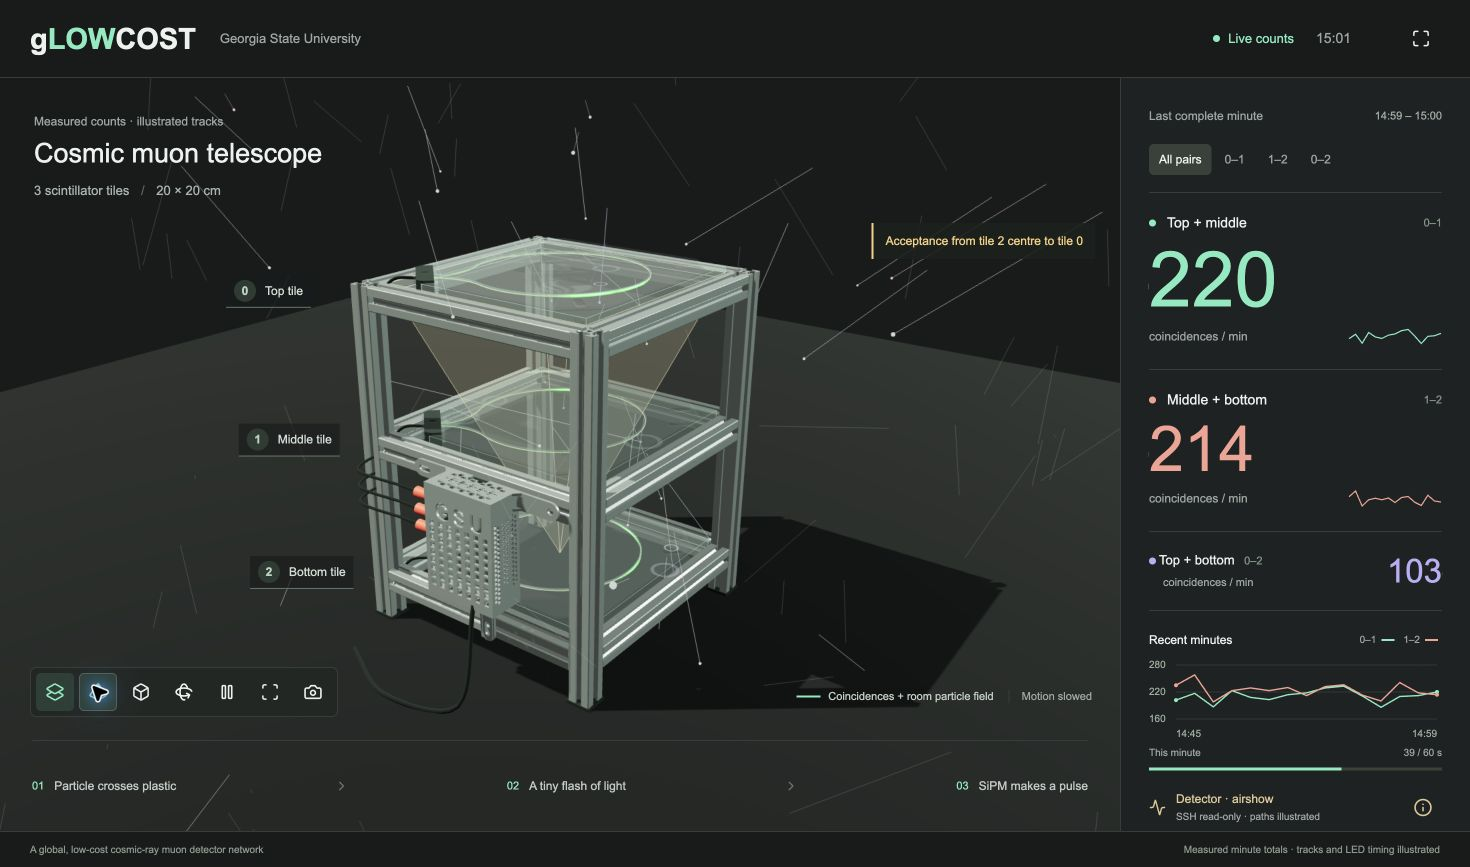
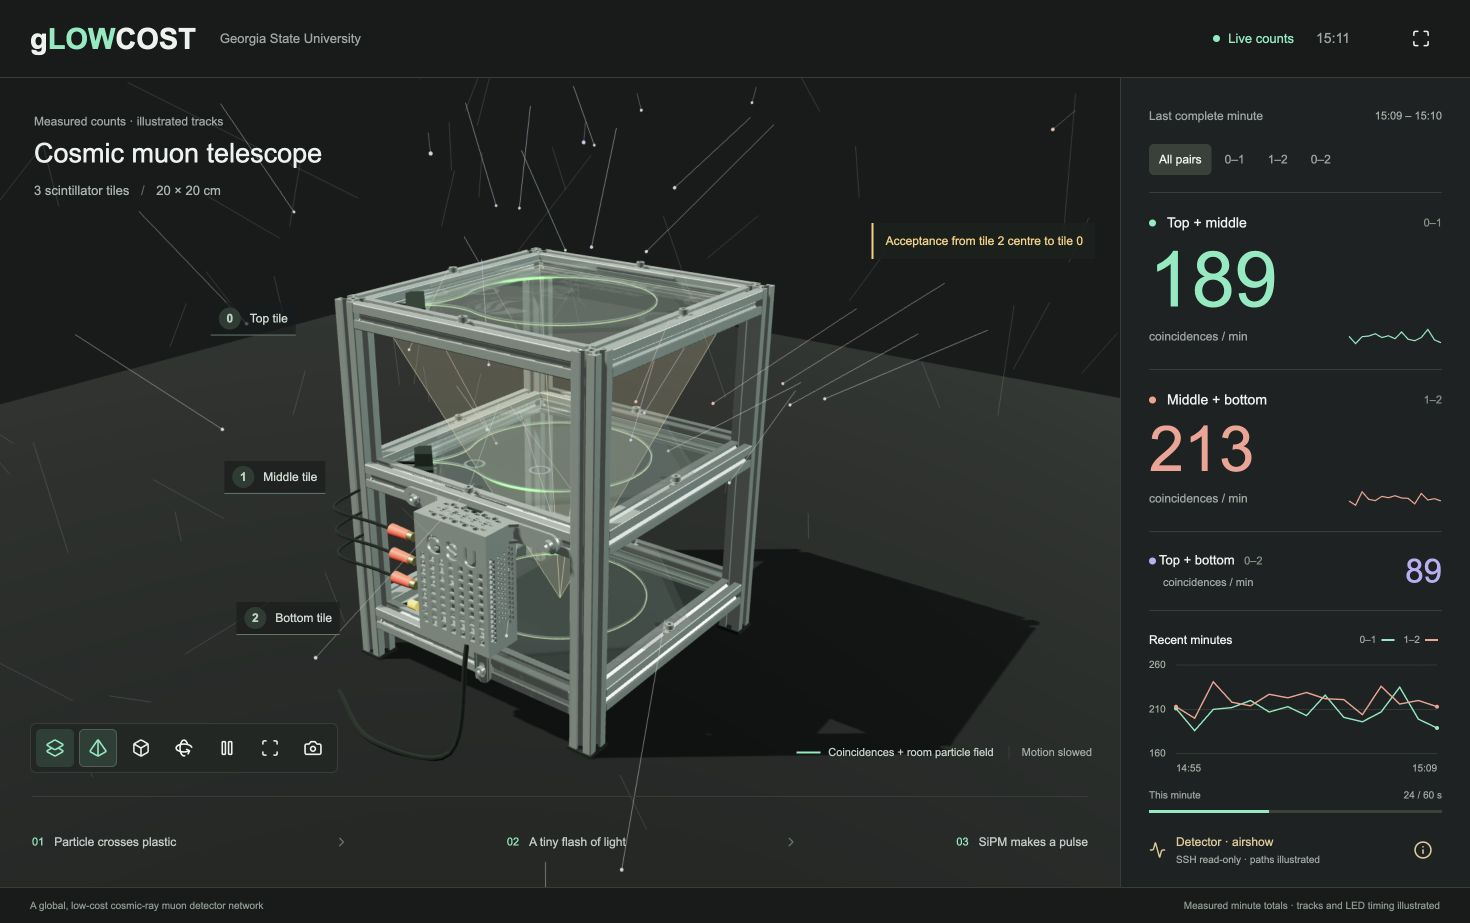
Recess tiles within frame and add socket-head mounting hardware

diff --git a/public/mechanics.js b/public/mechanics.js
@@ -2,6 +2,8 @@ import * as THREE from 'three';
 import { STLLoader } from '/vendor/loaders/STLLoader.js';
 import { GLTFLoader } from '/vendor/loaders/GLTFLoader.js';
 import { FibreLight, fibreCurve, tilePoint } from './fibre.js';
+import { TILE_HEIGHTS, ACRYLIC_ANGLE, ACRYLIC_MOUNTS } from './detector-geometry.js';
+import { socketFastener } from './fasteners.js';
 
 function acrylicShape(data) {
   const shape = new THREE.Shape(data.outline.map(p => new THREE.Vector2(...p)));
@@ -41,7 +43,7 @@ export async function installMechanicalParts(view) {
     upright.scale.y = (top - bottom) / 38.1;
     view.box(2.2, 0.5, 2.2, x, -18, z, view.black);
   }
-  for (const y of [12.05, -0.95, -13.95]) {
+  for (const y of TILE_HEIGHTS) {
     for (const z of [-11.16, 11.16]) mesh(rail, view.silver, [0, y, z]);
     for (const x of [-11.16, 11.16]) {
       const side = mesh(rail, view.silver, [x, y, 0]);
@@ -61,7 +63,7 @@ export async function installMechanicalParts(view) {
   view.mechanicalSheets = [];
   for (const old of view.sandwichPieces) { view.model.remove(old); old.geometry.dispose(); }
   view.tiles.forEach((item, index) => {
-    const y = [13, 0, -13][index];
+    const y = TILE_HEIGHTS[index];
     item.tile.geometry.dispose();
     item.tile.geometry = tile;
     item.edges.geometry.dispose();
@@ -80,12 +82,22 @@ export async function installMechanicalParts(view) {
     sensor.position.copy(tilePoint(19.021, 19.021, 8.5, y));
     view.model.add(sensor);
     for (const sign of [-1, 1]) {
-      const acrylicSheet = mesh(sheet, view.glass, [0, y + sign * 0.7, 0]);
-      acrylicSheet.rotation.y = Math.PI / 2;
+      const acrylicSheet = mesh(sheet, view.glass, [0, y + sign * 0.9, 0]);
+      acrylicSheet.rotation.y = ACRYLIC_ANGLE;
       view.mechanicalSheets.push(acrylicSheet);
       const padding = new THREE.MeshStandardMaterial({ map: view.wrap.map, color: '#303630',
         transparent: true, opacity: view.cutaway ? 0.15 : 1, roughness: 1, depthWrite: false });
-      view.cushions.push(mesh(cushion, padding, [0, y + sign * 0.55, 0]));
+      const lining = mesh(cushion, padding, [0, y + sign * 0.55, 0]);
+      lining.rotation.y = ACRYLIC_ANGLE;
+      view.cushions.push(lining);
+    }
+    for (const [x, z] of ACRYLIC_MOUNTS) {
+      const screw = socketFastener(view.silver, 0.45);
+      screw.rotation.x = -Math.PI / 2;
+      screw.position.set(x, y + 1.03, z);
+      // The sliding nut follows the longitudinal slot of each beam.
+      if (x) screw.rotateZ(Math.PI / 2);
+      view.model.add(screw);
     }
     const light = new FibreLight(fibreCurve(fibre, y), fibre.diameter_mm / 20);
     view.model.add(light.core, light.glow);
@@ -98,8 +110,8 @@ export async function installMechanicalParts(view) {
   artwork.colorSpace = THREE.SRGBColorSpace;
   view.topText.geometry.dispose();
   view.topText.geometry = new THREE.PlaneGeometry(19.81, 19.81);
-  view.topText.position.y = 13.81;
-  view.topText.rotation.z = Math.PI / 2;
+  view.topText.position.y = TILE_HEIGHTS[0] + 1.01;
+  view.topText.rotation.z = ACRYLIC_ANGLE;
   view.topText.material.dispose();
   view.topText.material = new THREE.MeshBasicMaterial({ map: artwork, transparent: true,
     opacity: view.cutaway ? 0.22 : 0.75, depthWrite: false, side: THREE.DoubleSide });
@@ -113,6 +125,12 @@ export async function installMechanicalParts(view) {
   base.scale(0.1, 0.1, 0.1);
   const enclosureBase = mesh(base, view.silver, [2.2, -5.1, 10.8]);
   view.readout.add(enclosureBase);
+  // These three slots belong to the supplied enclosure's mounting wings.
+  for (const [x, y] of [[-63.276, 41.097], [66.9, 41.4], [0, -87.198]]) {
+    const screw = socketFastener(view.silver, 0.8);
+    screw.position.set(2.2 + x / 10, -5.1 + y / 10, 11.02);
+    view.readout.add(screw);
+  }
   for (const old of [...view.lid.children]) { view.lid.remove(old); old.geometry?.dispose(); }
   lid.scale(0.1, 0.1, 0.1);
   const cover = new THREE.Mesh(lid, view.silver);

diff --git a/public/fasteners.js b/public/fasteners.js
@@ -1,0 +1,34 @@
+import * as THREE from './vendor/three.module.js';
+
+// Display dimensions approximate an M4 socket-head screw, washer and sliding nut.
+// The group's +Z axis points outwards from the mounting surface.
+export function socketFastener(material, length = 1) {
+  const group = new THREE.Group();
+  const head = new THREE.Shape();
+  head.absarc(0, 0, 0.35, 0, Math.PI * 2, false);
+  const socket = new THREE.Path();
+  for (let i = 0; i < 6; i++) {
+    const angle = -i * Math.PI / 3;
+    const x = 0.175 * Math.cos(angle), y = 0.175 * Math.sin(angle);
+    if (!i) socket.moveTo(x, y); else socket.lineTo(x, y);
+  }
+  socket.closePath();
+  head.holes.push(socket);
+  const cap = new THREE.Mesh(new THREE.ExtrudeGeometry(head,
+    { depth: 0.4, bevelEnabled: false, curveSegments: 16 }), material);
+  const recess = new THREE.Mesh(new THREE.CircleGeometry(0.175, 6),
+    new THREE.MeshStandardMaterial({ color: '#171a19', roughness: 0.8 }));
+  recess.position.z = 0.07;
+  const washer = new THREE.Mesh(new THREE.RingGeometry(0.205, 0.45, 24), material);
+  washer.material = material.clone();
+  washer.material.side = THREE.DoubleSide;
+  washer.position.z = 0.02;
+  const shaft = new THREE.Mesh(new THREE.CylinderGeometry(0.2, 0.2, length, 12), material);
+  shaft.rotation.x = Math.PI / 2;
+  shaft.position.z = -length / 2;
+  const nut = new THREE.Mesh(new THREE.BoxGeometry(1, 0.6, 0.25), material);
+  nut.position.z = -length + 0.125;
+  group.add(cap, recess, washer, shaft, nut);
+  group.traverse(part => { if (part.isMesh) part.castShadow = true; });
+  return group;
+}

diff --git a/public/scene.js b/public/scene.js
@@ -4,8 +4,9 @@ import { ReadoutHardware } from './hardware.js';
 import { acceptanceProfile } from './acceptance.js';
 import { installMechanicalParts } from './mechanics.js';
 import { BEAM, smaLeadPoints } from './readout-placement.js';
+import { TILE_HEIGHTS } from './detector-geometry.js';
 
-const TILE_Y = [13, 0, -13];
+const TILE_Y = TILE_HEIGHTS;
 const READOUT_PORT_Y = [-2.5, -4.5, -6.5];
 const PAIR_COLORS = { c01: '#80ecc0', c12: '#f5a394', c02: '#bcb0f6', all: '#80ecc0' };
 

diff --git a/public/acceptance.js b/public/acceptance.js
@@ -1,5 +1,7 @@
+import { TILE_HEIGHTS } from './detector-geometry.js';
+
 export function acceptanceProfile(pair = 'all') {
-  const heights = [13, 0, -13];
+  const heights = TILE_HEIGHTS;
   const [top, bottom] = (pair === 'all' ? '02' : pair.slice(1)).split('').map(Number);
   const lower = heights[bottom], upper = heights[top];
   return { lower, upper, top, bottom, halfWidth: 10,

diff --git a/public/detector-geometry.js b/public/detector-geometry.js
@@ -1,0 +1,5 @@
+export const TILE_HEIGHTS = [12.05, -0.95, -13.95];
+export const RAIL_HALF_HEIGHT = 1;
+// The source artwork and its four mounting holes are diagonal to the tile.
+export const ACRYLIC_ANGLE = Math.PI / 4;
+export const ACRYLIC_MOUNTS = [[0, -11.16], [11.16, 0], [0, 11.16], [-11.16, 0]];

diff --git a/README.md b/README.md
@@ -112,10 +112,15 @@ The tiles are 20 x 20 x 1 cm, with 13 cm between their centre planes.
 The tile and SiPM holder come from the supplied STL files. A section through
 the groove is used to place an illustrative 1 mm fibre between the groove
 walls. The acrylic outline, screw holes, slots, and engraving come from the
-Illustrator file. The acrylic sheets and engraving are rotated 90 degrees
-relative to the tile mesh. There is acrylic and a thin drawer-liner layer on
+Illustrator file. The sheets' mounting holes face the beam slots, and the
+lettering reads horizontally from the readout-box side. There is acrylic and a thin drawer-liner layer on
 both sides of each tile. Their thicknesses are display assumptions, not
 measurements taken from the artwork.
+
+The scintillator and its holder sit within the horizontal beams, so neither
+protrudes in a level side view. Four socket-head screws and sliding T-nuts
+secure each acrylic assembly. The readout uses its three existing mounting
+wing slots. Fastener dimensions are illustrative M4-sized hardware.
 
 The Hamamatsu S13360-2050VE component model sits in the corner holder's
 recess. Both ends of the fibre stop at its sensing face. Green light moves
@@ -166,6 +171,8 @@ these illustrated intersections are added to the measured numbers.
 | `public/mechanics.js` | Places the supplied STL parts, acrylic, liner, and fibre |
 | `public/fibre.js` | Follows the groove and animates green light towards the SiPM |
 | `public/readout-placement.js` | Aligns the GPIO header and defines the side cable route |
+| `public/detector-geometry.js` | Shares the recessed tile heights and acrylic orientation |
+| `public/fasteners.js` | Draws socket-head screws, washers and sliding T-nuts |
 | `public/hardware.js` | Loads the PCB and Pi CAD and flashes the indicators |
 | `public/acceptance.js` | Defines the selected-pair acceptance geometry |
 | `public/charts.js` | Draws the count history |

diff --git a/docs/ASSETS.md b/docs/ASSETS.md
@@ -49,7 +49,9 @@ changes, inspect its components before using the same selection.
 The Illustrator file has a PDF-compatible page. A blank plate is used to
 extract the outline and four holes/slots. This avoids mistaking letters for
 cutting paths. The marked plate is rendered separately as an engraving mask.
-The acrylic sheets and engraving are turned 90 degrees in `mechanics.js`.
+The source lettering is diagonal. The sheets and artwork are oriented so the
+letters read across the top when viewed from the readout-box side, with the
+four screw locations over the beam slots. `ACRYLIC_ANGLE` is shared by both.
 
 For the fibre, the script takes a horizontal section at 8.4 mm in the tile.
 It finds the inner and outer groove walls and places the fibre between them.
@@ -84,6 +86,14 @@ so it cannot specify the material thickness. The display uses 2 mm acrylic
 and 1 mm drawer liner on each side. Change those values in `mechanics.js` when
 the actual thicknesses have been measured. The liner texture is an illustration
 of a woven cushion, not a scanned surface.
+
+The tile planes coincide with the horizontal beam centre heights. A tile is
+10 mm thick and the supplied holder spans 15 mm vertically; both fit within
+the 20 mm extrusion height. The clear sheets sit above and below the tile.
+Four illustrated socket-head screws, washers, and sliding T-nuts sit over the
+beam slots at each level. The supplied box has three mounting-wing slots,
+which receive the same type of hardware. The M4-sized fasteners are drawn
+for the display, not taken from a manufacturer CAD model.
 
 ## Readout PCB
 

diff --git a/docs/DEVELOPMENT.md b/docs/DEVELOPMENT.md
@@ -21,14 +21,16 @@ by the browser must never increment a number labelled as a measurement.
 
 ## Where to make common changes
 
-- Tile width and separation: `GEOMETRY` in `simulation.mjs`, plane heights in
-  `scene.js` and `acceptance.js`, and the placement in `mechanics.js`. Keep them
-  consistent and run the geometry tests afterwards.
+- Tile heights: `TILE_HEIGHTS` in `detector-geometry.js`, shared by the scene,
+  acceptance overlay, mechanical placement, and simulation. Keep the tile and
+  holder recessed within the beams. Width and separation are in `GEOMETRY`.
 - Synthetic count rate: `target` in the `Simulation` constructor.
 - Room area: `ROOM.width` in `simulation.mjs`. The proposal rate already
   includes the area ratio, so do not add another rate multiplier.
-- Acrylic orientation: `acrylicSheet.rotation.y` and `topText.rotation.z` in
-  `mechanics.js`. Do not rotate the scintillator or fibre just to turn the art.
+- Acrylic orientation: `ACRYLIC_ANGLE` in `detector-geometry.js`. This turns the
+  sheets and lettering together without turning the scintillator or fibre.
+- Socket-head screws and T-nuts: `fasteners.js`; mounting positions are in
+  `mechanics.js` and `detector-geometry.js`.
 - Optical layer thickness: the sheet and cushion extrusions in `mechanics.js`.
 - Fibre endpoints and green light: `fibre.js`. Keep the endpoints on the holder
   recess face, and run the fibre tests after changing that position.

diff --git a/VERIFICATION.md b/VERIFICATION.md
@@ -4,7 +4,7 @@ Checked locally on 20 October 2026.
 
 ## Automated tests
 
-All 15 Node tests pass. They cover the simulation rate near 230/min per
+All 19 Node tests pass. They cover the simulation rate near 230/min per
 adjacent pair, track intersections, misses and single hits, completed bins,
 reproducible IDs, log column order, partial lines, stale data, square-pyramid
 boundaries, fibre endpoints, green light, mounting holes, GPIO placement,
@@ -17,7 +17,11 @@ optical-efficiency measurement.
 ## Browser and CAD checks
 
 - The supplied frame, tile, holder, acrylic, liner, and enclosure load.
-- Acrylic and engraving are rotated 90 degrees relative to the tile.
+- Acrylic mounting holes face the beam slots. Lettering runs horizontally
+  from the readout-box side, accounting for the diagonal source artwork.
+- The 10 mm tile and 15 mm holder sit within each 20 mm beam height. Rendering
+  and track intersections share the same recessed plane heights.
+- Socket-head screws, washers and sliding T-nuts secure the acrylic and box.
 - Green light follows the fibre. The placeholder box and exposed green lead
   outside the tile corner have been removed.
 - Room tracks include misses and tile crossings. The acceptance toggle shows

diff --git a/docs/GEOMETRY.md b/docs/GEOMETRY.md
@@ -6,13 +6,14 @@ path, drawn to explain how the three tiles work.
 
 ## A track crossing a tile
 
-Scene distances are in centimetres. Height is `y`. The middle plane is at zero,
-the top is at +13, and the bottom is at -13. A track has a middle-plane position
-`(x0, z0)` and slopes `(dx, dz)`. At height `y`:
+Scene distances are in centimetres. Height is `y`. Tile centres are at
+12.05, -0.95, and -13.95, matching the horizontal beams. Their separations
+remain 13 cm. A track has a middle-plane position `(xm, zm)` and slopes
+`(dx, dz)`. With middle-plane height `ym = -0.95`, at height `y`:
 
 ```text
-x(y) = x0 - y dx
-z(y) = z0 - y dz
+x(y) = xm - (y - ym) dx
+z(y) = zm - (y - ym) dz
 ```
 
 It hits a tile when both coordinates are between -10 and +10 cm. One hit cannot
@@ -72,5 +73,5 @@ coincidences. Missed tracks are drawn faintly and thinned for performance.
 Raw single-channel counts are not used as a room-muon rate because they also
 contain dark and electronic pulses.
 
-The fibre path follows the groove. The moving light dots are still
+The fibre path follows the groove. The moving green bands are still
 illustrative; they are not a ray-traced calculation of light transport.
